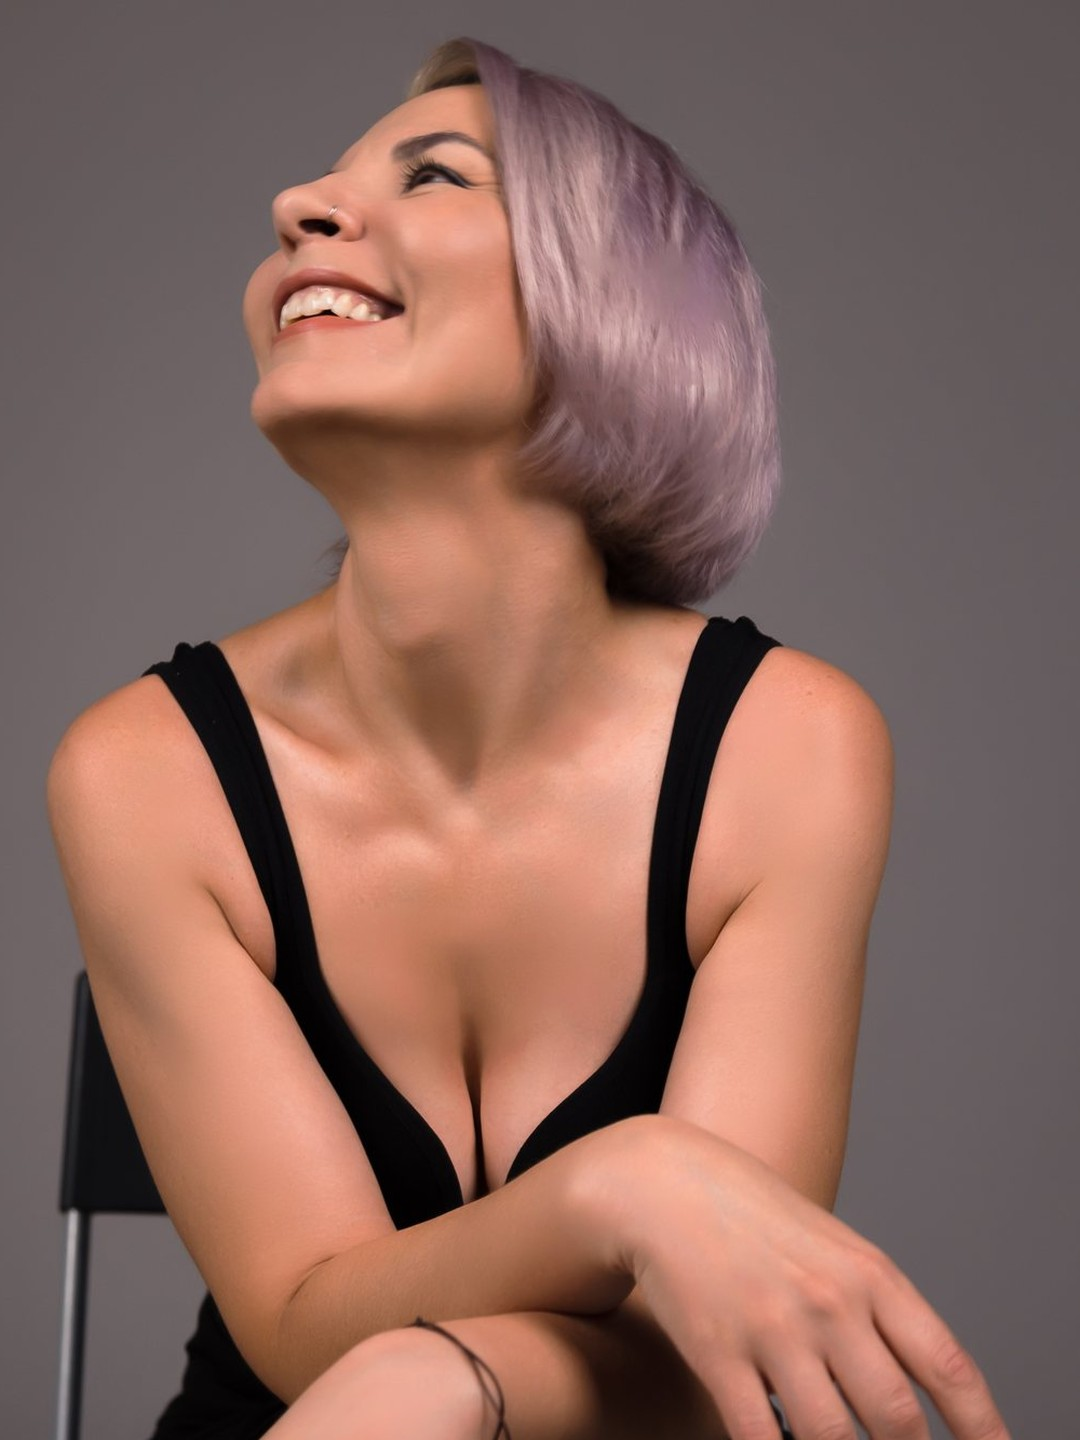
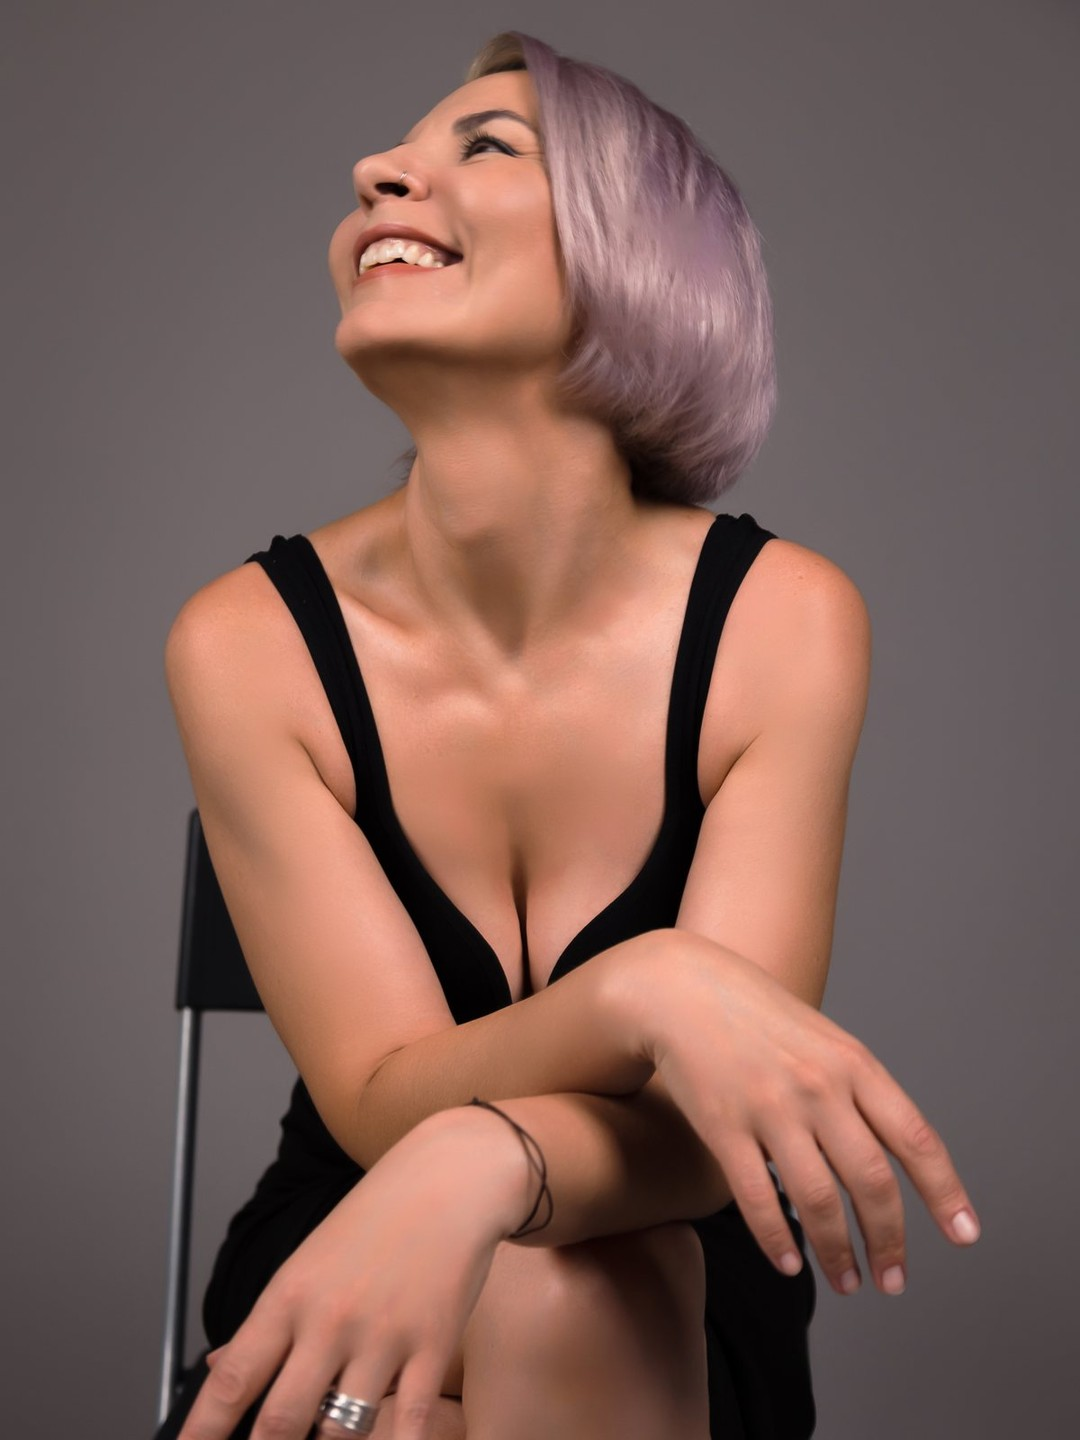
redeploy knowledge base 2026-09-03T16:11:54Z

diff --git a/about/index.html b/about/index.html
@@ -230,7 +230,7 @@ h1{font-size:28px}
 .tabs{grid-template-columns:repeat(auto-fit,minmax(140px,1fr));gap:7px}
 .tab{font-size:12.5px;padding:9px 8px}
 }
-.hero:not(.about-hero) .art{background:var(--ink) url('/assets/tatiana-hero.jpg') center right/cover no-repeat}.hero:not(.about-hero) .grid{display:none}.hero:not(.about-hero) .glow{display:none}@media(max-width:900px){.hero:not(.about-hero) .art{background-position:72% center}}.hero.about-hero{min-height:520px}.hero.about-hero .art{left:auto;right:0;width:50%;background:url('/assets/tatiana-about.jpg') center 18%/cover no-repeat;-webkit-mask-image:linear-gradient(90deg,transparent 0%,#000 44%);mask-image:linear-gradient(90deg,transparent 0%,#000 44%)}.hero.about-hero .txt{max-width:50%;background:none}.hero.about-hero h1{font-size:32px;max-width:12ch}.hero.about-hero .desc{font-size:15px;max-width:30ch}@media(max-width:760px){.hero.about-hero{display:block;padding-top:0}.hero.about-hero .art{position:static;inset:auto;width:100%;height:auto;aspect-ratio:3/4;background-position:center top;background-size:cover;-webkit-mask-image:linear-gradient(180deg,#000 86%,transparent 100%);mask-image:linear-gradient(180deg,#000 86%,transparent 100%)}.hero.about-hero .txt{max-width:100%;padding-top:18px;margin-top:-40px}.hero.about-hero h1{font-size:27px;max-width:none}.hero.about-hero .desc{max-width:none}}</style>
+.hero:not(.about-hero) .art{background:var(--ink) url('/assets/tatiana-hero.jpg') center right/cover no-repeat}.hero:not(.about-hero) .grid{display:none}.hero:not(.about-hero) .glow{display:none}@media(max-width:900px){.hero:not(.about-hero) .art{background-position:72% center}}.hero.about-hero{min-height:0;align-items:center;gap:38px;padding:40px;background:var(--surface)}.hero.about-hero .grid,.hero.about-hero .glow{display:none}.hero.about-hero .art{position:static;inset:auto;order:2;flex:0 0 320px;width:320px;aspect-ratio:3/4;background:var(--surface) url('/assets/tatiana-about.jpg') center top/cover no-repeat;border-radius:20px;box-shadow:0 20px 44px rgba(var(--tint-rgb),.26);-webkit-mask-image:none;mask-image:none}.hero.about-hero .txt{order:1;flex:1 1 auto;max-width:none;padding:0;background:none}.hero.about-hero h1{font-size:34px;max-width:15ch}.hero.about-hero .desc{font-size:16px;max-width:46ch;color:var(--muted)}@media(max-width:900px){.hero.about-hero{flex-direction:column;align-items:stretch;gap:22px;padding:22px}.hero.about-hero .art{order:1;flex:none;width:100%;max-width:320px;align-self:center}.hero.about-hero .txt{order:2}.hero.about-hero h1{font-size:27px;max-width:none}.hero.about-hero .desc{max-width:none}}</style>
 <script>
 (function(){
   var d=document.documentElement;

diff --git a/guide-mify/index.html b/guide-mify/index.html
@@ -230,7 +230,7 @@ h1{font-size:28px}
 .tabs{grid-template-columns:repeat(auto-fit,minmax(140px,1fr));gap:7px}
 .tab{font-size:12.5px;padding:9px 8px}
 }
-.hero:not(.about-hero) .art{background:var(--ink) url('/assets/tatiana-hero.jpg') center right/cover no-repeat}.hero:not(.about-hero) .grid{display:none}.hero:not(.about-hero) .glow{display:none}@media(max-width:900px){.hero:not(.about-hero) .art{background-position:72% center}}.hero.about-hero{min-height:520px}.hero.about-hero .art{left:auto;right:0;width:50%;background:url('/assets/tatiana-about.jpg') center 18%/cover no-repeat;-webkit-mask-image:linear-gradient(90deg,transparent 0%,#000 44%);mask-image:linear-gradient(90deg,transparent 0%,#000 44%)}.hero.about-hero .txt{max-width:50%;background:none}.hero.about-hero h1{font-size:32px;max-width:12ch}.hero.about-hero .desc{font-size:15px;max-width:30ch}@media(max-width:760px){.hero.about-hero{display:block;padding-top:0}.hero.about-hero .art{position:static;inset:auto;width:100%;height:auto;aspect-ratio:3/4;background-position:center top;background-size:cover;-webkit-mask-image:linear-gradient(180deg,#000 86%,transparent 100%);mask-image:linear-gradient(180deg,#000 86%,transparent 100%)}.hero.about-hero .txt{max-width:100%;padding-top:18px;margin-top:-40px}.hero.about-hero h1{font-size:27px;max-width:none}.hero.about-hero .desc{max-width:none}}</style>
+.hero:not(.about-hero) .art{background:var(--ink) url('/assets/tatiana-hero.jpg') center right/cover no-repeat}.hero:not(.about-hero) .grid{display:none}.hero:not(.about-hero) .glow{display:none}@media(max-width:900px){.hero:not(.about-hero) .art{background-position:72% center}}.hero.about-hero{min-height:0;align-items:center;gap:38px;padding:40px;background:var(--surface)}.hero.about-hero .grid,.hero.about-hero .glow{display:none}.hero.about-hero .art{position:static;inset:auto;order:2;flex:0 0 320px;width:320px;aspect-ratio:3/4;background:var(--surface) url('/assets/tatiana-about.jpg') center top/cover no-repeat;border-radius:20px;box-shadow:0 20px 44px rgba(var(--tint-rgb),.26);-webkit-mask-image:none;mask-image:none}.hero.about-hero .txt{order:1;flex:1 1 auto;max-width:none;padding:0;background:none}.hero.about-hero h1{font-size:34px;max-width:15ch}.hero.about-hero .desc{font-size:16px;max-width:46ch;color:var(--muted)}@media(max-width:900px){.hero.about-hero{flex-direction:column;align-items:stretch;gap:22px;padding:22px}.hero.about-hero .art{order:1;flex:none;width:100%;max-width:320px;align-self:center}.hero.about-hero .txt{order:2}.hero.about-hero h1{font-size:27px;max-width:none}.hero.about-hero .desc{max-width:none}}</style>
 <script>
 (function(){
   var d=document.documentElement;

diff --git a/guide-pervaya-nedelya/index.html b/guide-pervaya-nedelya/index.html
@@ -230,7 +230,7 @@ h1{font-size:28px}
 .tabs{grid-template-columns:repeat(auto-fit,minmax(140px,1fr));gap:7px}
 .tab{font-size:12.5px;padding:9px 8px}
 }
-.hero:not(.about-hero) .art{background:var(--ink) url('/assets/tatiana-hero.jpg') center right/cover no-repeat}.hero:not(.about-hero) .grid{display:none}.hero:not(.about-hero) .glow{display:none}@media(max-width:900px){.hero:not(.about-hero) .art{background-position:72% center}}.hero.about-hero{min-height:520px}.hero.about-hero .art{left:auto;right:0;width:50%;background:url('/assets/tatiana-about.jpg') center 18%/cover no-repeat;-webkit-mask-image:linear-gradient(90deg,transparent 0%,#000 44%);mask-image:linear-gradient(90deg,transparent 0%,#000 44%)}.hero.about-hero .txt{max-width:50%;background:none}.hero.about-hero h1{font-size:32px;max-width:12ch}.hero.about-hero .desc{font-size:15px;max-width:30ch}@media(max-width:760px){.hero.about-hero{display:block;padding-top:0}.hero.about-hero .art{position:static;inset:auto;width:100%;height:auto;aspect-ratio:3/4;background-position:center top;background-size:cover;-webkit-mask-image:linear-gradient(180deg,#000 86%,transparent 100%);mask-image:linear-gradient(180deg,#000 86%,transparent 100%)}.hero.about-hero .txt{max-width:100%;padding-top:18px;margin-top:-40px}.hero.about-hero h1{font-size:27px;max-width:none}.hero.about-hero .desc{max-width:none}}</style>
+.hero:not(.about-hero) .art{background:var(--ink) url('/assets/tatiana-hero.jpg') center right/cover no-repeat}.hero:not(.about-hero) .grid{display:none}.hero:not(.about-hero) .glow{display:none}@media(max-width:900px){.hero:not(.about-hero) .art{background-position:72% center}}.hero.about-hero{min-height:0;align-items:center;gap:38px;padding:40px;background:var(--surface)}.hero.about-hero .grid,.hero.about-hero .glow{display:none}.hero.about-hero .art{position:static;inset:auto;order:2;flex:0 0 320px;width:320px;aspect-ratio:3/4;background:var(--surface) url('/assets/tatiana-about.jpg') center top/cover no-repeat;border-radius:20px;box-shadow:0 20px 44px rgba(var(--tint-rgb),.26);-webkit-mask-image:none;mask-image:none}.hero.about-hero .txt{order:1;flex:1 1 auto;max-width:none;padding:0;background:none}.hero.about-hero h1{font-size:34px;max-width:15ch}.hero.about-hero .desc{font-size:16px;max-width:46ch;color:var(--muted)}@media(max-width:900px){.hero.about-hero{flex-direction:column;align-items:stretch;gap:22px;padding:22px}.hero.about-hero .art{order:1;flex:none;width:100%;max-width:320px;align-self:center}.hero.about-hero .txt{order:2}.hero.about-hero h1{font-size:27px;max-width:none}.hero.about-hero .desc{max-width:none}}</style>
 <script>
 (function(){
   var d=document.documentElement;

diff --git a/guide-privychki/index.html b/guide-privychki/index.html
@@ -230,7 +230,7 @@ h1{font-size:28px}
 .tabs{grid-template-columns:repeat(auto-fit,minmax(140px,1fr));gap:7px}
 .tab{font-size:12.5px;padding:9px 8px}
 }
-.hero:not(.about-hero) .art{background:var(--ink) url('/assets/tatiana-hero.jpg') center right/cover no-repeat}.hero:not(.about-hero) .grid{display:none}.hero:not(.about-hero) .glow{display:none}@media(max-width:900px){.hero:not(.about-hero) .art{background-position:72% center}}.hero.about-hero{min-height:520px}.hero.about-hero .art{left:auto;right:0;width:50%;background:url('/assets/tatiana-about.jpg') center 18%/cover no-repeat;-webkit-mask-image:linear-gradient(90deg,transparent 0%,#000 44%);mask-image:linear-gradient(90deg,transparent 0%,#000 44%)}.hero.about-hero .txt{max-width:50%;background:none}.hero.about-hero h1{font-size:32px;max-width:12ch}.hero.about-hero .desc{font-size:15px;max-width:30ch}@media(max-width:760px){.hero.about-hero{display:block;padding-top:0}.hero.about-hero .art{position:static;inset:auto;width:100%;height:auto;aspect-ratio:3/4;background-position:center top;background-size:cover;-webkit-mask-image:linear-gradient(180deg,#000 86%,transparent 100%);mask-image:linear-gradient(180deg,#000 86%,transparent 100%)}.hero.about-hero .txt{max-width:100%;padding-top:18px;margin-top:-40px}.hero.about-hero h1{font-size:27px;max-width:none}.hero.about-hero .desc{max-width:none}}</style>
+.hero:not(.about-hero) .art{background:var(--ink) url('/assets/tatiana-hero.jpg') center right/cover no-repeat}.hero:not(.about-hero) .grid{display:none}.hero:not(.about-hero) .glow{display:none}@media(max-width:900px){.hero:not(.about-hero) .art{background-position:72% center}}.hero.about-hero{min-height:0;align-items:center;gap:38px;padding:40px;background:var(--surface)}.hero.about-hero .grid,.hero.about-hero .glow{display:none}.hero.about-hero .art{position:static;inset:auto;order:2;flex:0 0 320px;width:320px;aspect-ratio:3/4;background:var(--surface) url('/assets/tatiana-about.jpg') center top/cover no-repeat;border-radius:20px;box-shadow:0 20px 44px rgba(var(--tint-rgb),.26);-webkit-mask-image:none;mask-image:none}.hero.about-hero .txt{order:1;flex:1 1 auto;max-width:none;padding:0;background:none}.hero.about-hero h1{font-size:34px;max-width:15ch}.hero.about-hero .desc{font-size:16px;max-width:46ch;color:var(--muted)}@media(max-width:900px){.hero.about-hero{flex-direction:column;align-items:stretch;gap:22px;padding:22px}.hero.about-hero .art{order:1;flex:none;width:100%;max-width:320px;align-self:center}.hero.about-hero .txt{order:2}.hero.about-hero h1{font-size:27px;max-width:none}.hero.about-hero .desc{max-width:none}}</style>
 <script>
 (function(){
   var d=document.documentElement;

diff --git a/guide-semya/index.html b/guide-semya/index.html
@@ -230,7 +230,7 @@ h1{font-size:28px}
 .tabs{grid-template-columns:repeat(auto-fit,minmax(140px,1fr));gap:7px}
 .tab{font-size:12.5px;padding:9px 8px}
 }
-.hero:not(.about-hero) .art{background:var(--ink) url('/assets/tatiana-hero.jpg') center right/cover no-repeat}.hero:not(.about-hero) .grid{display:none}.hero:not(.about-hero) .glow{display:none}@media(max-width:900px){.hero:not(.about-hero) .art{background-position:72% center}}.hero.about-hero{min-height:520px}.hero.about-hero .art{left:auto;right:0;width:50%;background:url('/assets/tatiana-about.jpg') center 18%/cover no-repeat;-webkit-mask-image:linear-gradient(90deg,transparent 0%,#000 44%);mask-image:linear-gradient(90deg,transparent 0%,#000 44%)}.hero.about-hero .txt{max-width:50%;background:none}.hero.about-hero h1{font-size:32px;max-width:12ch}.hero.about-hero .desc{font-size:15px;max-width:30ch}@media(max-width:760px){.hero.about-hero{display:block;padding-top:0}.hero.about-hero .art{position:static;inset:auto;width:100%;height:auto;aspect-ratio:3/4;background-position:center top;background-size:cover;-webkit-mask-image:linear-gradient(180deg,#000 86%,transparent 100%);mask-image:linear-gradient(180deg,#000 86%,transparent 100%)}.hero.about-hero .txt{max-width:100%;padding-top:18px;margin-top:-40px}.hero.about-hero h1{font-size:27px;max-width:none}.hero.about-hero .desc{max-width:none}}</style>
+.hero:not(.about-hero) .art{background:var(--ink) url('/assets/tatiana-hero.jpg') center right/cover no-repeat}.hero:not(.about-hero) .grid{display:none}.hero:not(.about-hero) .glow{display:none}@media(max-width:900px){.hero:not(.about-hero) .art{background-position:72% center}}.hero.about-hero{min-height:0;align-items:center;gap:38px;padding:40px;background:var(--surface)}.hero.about-hero .grid,.hero.about-hero .glow{display:none}.hero.about-hero .art{position:static;inset:auto;order:2;flex:0 0 320px;width:320px;aspect-ratio:3/4;background:var(--surface) url('/assets/tatiana-about.jpg') center top/cover no-repeat;border-radius:20px;box-shadow:0 20px 44px rgba(var(--tint-rgb),.26);-webkit-mask-image:none;mask-image:none}.hero.about-hero .txt{order:1;flex:1 1 auto;max-width:none;padding:0;background:none}.hero.about-hero h1{font-size:34px;max-width:15ch}.hero.about-hero .desc{font-size:16px;max-width:46ch;color:var(--muted)}@media(max-width:900px){.hero.about-hero{flex-direction:column;align-items:stretch;gap:22px;padding:22px}.hero.about-hero .art{order:1;flex:none;width:100%;max-width:320px;align-self:center}.hero.about-hero .txt{order:2}.hero.about-hero h1{font-size:27px;max-width:none}.hero.about-hero .desc{max-width:none}}</style>
 <script>
 (function(){
   var d=document.documentElement;

diff --git a/guide-tarelka/index.html b/guide-tarelka/index.html
@@ -230,7 +230,7 @@ h1{font-size:28px}
 .tabs{grid-template-columns:repeat(auto-fit,minmax(140px,1fr));gap:7px}
 .tab{font-size:12.5px;padding:9px 8px}
 }
-.hero:not(.about-hero) .art{background:var(--ink) url('/assets/tatiana-hero.jpg') center right/cover no-repeat}.hero:not(.about-hero) .grid{display:none}.hero:not(.about-hero) .glow{display:none}@media(max-width:900px){.hero:not(.about-hero) .art{background-position:72% center}}.hero.about-hero{min-height:520px}.hero.about-hero .art{left:auto;right:0;width:50%;background:url('/assets/tatiana-about.jpg') center 18%/cover no-repeat;-webkit-mask-image:linear-gradient(90deg,transparent 0%,#000 44%);mask-image:linear-gradient(90deg,transparent 0%,#000 44%)}.hero.about-hero .txt{max-width:50%;background:none}.hero.about-hero h1{font-size:32px;max-width:12ch}.hero.about-hero .desc{font-size:15px;max-width:30ch}@media(max-width:760px){.hero.about-hero{display:block;padding-top:0}.hero.about-hero .art{position:static;inset:auto;width:100%;height:auto;aspect-ratio:3/4;background-position:center top;background-size:cover;-webkit-mask-image:linear-gradient(180deg,#000 86%,transparent 100%);mask-image:linear-gradient(180deg,#000 86%,transparent 100%)}.hero.about-hero .txt{max-width:100%;padding-top:18px;margin-top:-40px}.hero.about-hero h1{font-size:27px;max-width:none}.hero.about-hero .desc{max-width:none}}</style>
+.hero:not(.about-hero) .art{background:var(--ink) url('/assets/tatiana-hero.jpg') center right/cover no-repeat}.hero:not(.about-hero) .grid{display:none}.hero:not(.about-hero) .glow{display:none}@media(max-width:900px){.hero:not(.about-hero) .art{background-position:72% center}}.hero.about-hero{min-height:0;align-items:center;gap:38px;padding:40px;background:var(--surface)}.hero.about-hero .grid,.hero.about-hero .glow{display:none}.hero.about-hero .art{position:static;inset:auto;order:2;flex:0 0 320px;width:320px;aspect-ratio:3/4;background:var(--surface) url('/assets/tatiana-about.jpg') center top/cover no-repeat;border-radius:20px;box-shadow:0 20px 44px rgba(var(--tint-rgb),.26);-webkit-mask-image:none;mask-image:none}.hero.about-hero .txt{order:1;flex:1 1 auto;max-width:none;padding:0;background:none}.hero.about-hero h1{font-size:34px;max-width:15ch}.hero.about-hero .desc{font-size:16px;max-width:46ch;color:var(--muted)}@media(max-width:900px){.hero.about-hero{flex-direction:column;align-items:stretch;gap:22px;padding:22px}.hero.about-hero .art{order:1;flex:none;width:100%;max-width:320px;align-self:center}.hero.about-hero .txt{order:2}.hero.about-hero h1{font-size:27px;max-width:none}.hero.about-hero .desc{max-width:none}}</style>
 <script>
 (function(){
   var d=document.documentElement;

diff --git a/guide-vecher/index.html b/guide-vecher/index.html
@@ -230,7 +230,7 @@ h1{font-size:28px}
 .tabs{grid-template-columns:repeat(auto-fit,minmax(140px,1fr));gap:7px}
 .tab{font-size:12.5px;padding:9px 8px}
 }
-.hero:not(.about-hero) .art{background:var(--ink) url('/assets/tatiana-hero.jpg') center right/cover no-repeat}.hero:not(.about-hero) .grid{display:none}.hero:not(.about-hero) .glow{display:none}@media(max-width:900px){.hero:not(.about-hero) .art{background-position:72% center}}.hero.about-hero{min-height:520px}.hero.about-hero .art{left:auto;right:0;width:50%;background:url('/assets/tatiana-about.jpg') center 18%/cover no-repeat;-webkit-mask-image:linear-gradient(90deg,transparent 0%,#000 44%);mask-image:linear-gradient(90deg,transparent 0%,#000 44%)}.hero.about-hero .txt{max-width:50%;background:none}.hero.about-hero h1{font-size:32px;max-width:12ch}.hero.about-hero .desc{font-size:15px;max-width:30ch}@media(max-width:760px){.hero.about-hero{display:block;padding-top:0}.hero.about-hero .art{position:static;inset:auto;width:100%;height:auto;aspect-ratio:3/4;background-position:center top;background-size:cover;-webkit-mask-image:linear-gradient(180deg,#000 86%,transparent 100%);mask-image:linear-gradient(180deg,#000 86%,transparent 100%)}.hero.about-hero .txt{max-width:100%;padding-top:18px;margin-top:-40px}.hero.about-hero h1{font-size:27px;max-width:none}.hero.about-hero .desc{max-width:none}}</style>
+.hero:not(.about-hero) .art{background:var(--ink) url('/assets/tatiana-hero.jpg') center right/cover no-repeat}.hero:not(.about-hero) .grid{display:none}.hero:not(.about-hero) .glow{display:none}@media(max-width:900px){.hero:not(.about-hero) .art{background-position:72% center}}.hero.about-hero{min-height:0;align-items:center;gap:38px;padding:40px;background:var(--surface)}.hero.about-hero .grid,.hero.about-hero .glow{display:none}.hero.about-hero .art{position:static;inset:auto;order:2;flex:0 0 320px;width:320px;aspect-ratio:3/4;background:var(--surface) url('/assets/tatiana-about.jpg') center top/cover no-repeat;border-radius:20px;box-shadow:0 20px 44px rgba(var(--tint-rgb),.26);-webkit-mask-image:none;mask-image:none}.hero.about-hero .txt{order:1;flex:1 1 auto;max-width:none;padding:0;background:none}.hero.about-hero h1{font-size:34px;max-width:15ch}.hero.about-hero .desc{font-size:16px;max-width:46ch;color:var(--muted)}@media(max-width:900px){.hero.about-hero{flex-direction:column;align-items:stretch;gap:22px;padding:22px}.hero.about-hero .art{order:1;flex:none;width:100%;max-width:320px;align-self:center}.hero.about-hero .txt{order:2}.hero.about-hero h1{font-size:27px;max-width:none}.hero.about-hero .desc{max-width:none}}</style>
 <script>
 (function(){
   var d=document.documentElement;

diff --git a/guide-ves-vstal/index.html b/guide-ves-vstal/index.html
@@ -230,7 +230,7 @@ h1{font-size:28px}
 .tabs{grid-template-columns:repeat(auto-fit,minmax(140px,1fr));gap:7px}
 .tab{font-size:12.5px;padding:9px 8px}
 }
-.hero:not(.about-hero) .art{background:var(--ink) url('/assets/tatiana-hero.jpg') center right/cover no-repeat}.hero:not(.about-hero) .grid{display:none}.hero:not(.about-hero) .glow{display:none}@media(max-width:900px){.hero:not(.about-hero) .art{background-position:72% center}}.hero.about-hero{min-height:520px}.hero.about-hero .art{left:auto;right:0;width:50%;background:url('/assets/tatiana-about.jpg') center 18%/cover no-repeat;-webkit-mask-image:linear-gradient(90deg,transparent 0%,#000 44%);mask-image:linear-gradient(90deg,transparent 0%,#000 44%)}.hero.about-hero .txt{max-width:50%;background:none}.hero.about-hero h1{font-size:32px;max-width:12ch}.hero.about-hero .desc{font-size:15px;max-width:30ch}@media(max-width:760px){.hero.about-hero{display:block;padding-top:0}.hero.about-hero .art{position:static;inset:auto;width:100%;height:auto;aspect-ratio:3/4;background-position:center top;background-size:cover;-webkit-mask-image:linear-gradient(180deg,#000 86%,transparent 100%);mask-image:linear-gradient(180deg,#000 86%,transparent 100%)}.hero.about-hero .txt{max-width:100%;padding-top:18px;margin-top:-40px}.hero.about-hero h1{font-size:27px;max-width:none}.hero.about-hero .desc{max-width:none}}</style>
+.hero:not(.about-hero) .art{background:var(--ink) url('/assets/tatiana-hero.jpg') center right/cover no-repeat}.hero:not(.about-hero) .grid{display:none}.hero:not(.about-hero) .glow{display:none}@media(max-width:900px){.hero:not(.about-hero) .art{background-position:72% center}}.hero.about-hero{min-height:0;align-items:center;gap:38px;padding:40px;background:var(--surface)}.hero.about-hero .grid,.hero.about-hero .glow{display:none}.hero.about-hero .art{position:static;inset:auto;order:2;flex:0 0 320px;width:320px;aspect-ratio:3/4;background:var(--surface) url('/assets/tatiana-about.jpg') center top/cover no-repeat;border-radius:20px;box-shadow:0 20px 44px rgba(var(--tint-rgb),.26);-webkit-mask-image:none;mask-image:none}.hero.about-hero .txt{order:1;flex:1 1 auto;max-width:none;padding:0;background:none}.hero.about-hero h1{font-size:34px;max-width:15ch}.hero.about-hero .desc{font-size:16px;max-width:46ch;color:var(--muted)}@media(max-width:900px){.hero.about-hero{flex-direction:column;align-items:stretch;gap:22px;padding:22px}.hero.about-hero .art{order:1;flex:none;width:100%;max-width:320px;align-self:center}.hero.about-hero .txt{order:2}.hero.about-hero h1{font-size:27px;max-width:none}.hero.about-hero .desc{max-width:none}}</style>
 <script>
 (function(){
   var d=document.documentElement;

diff --git a/index.html b/index.html
@@ -230,7 +230,7 @@ h1{font-size:28px}
 .tabs{grid-template-columns:repeat(auto-fit,minmax(140px,1fr));gap:7px}
 .tab{font-size:12.5px;padding:9px 8px}
 }
-.hero:not(.about-hero) .art{background:var(--ink) url('/assets/tatiana-hero.jpg') center right/cover no-repeat}.hero:not(.about-hero) .grid{display:none}.hero:not(.about-hero) .glow{display:none}@media(max-width:900px){.hero:not(.about-hero) .art{background-position:72% center}}.hero.about-hero{min-height:520px}.hero.about-hero .art{left:auto;right:0;width:50%;background:url('/assets/tatiana-about.jpg') center 18%/cover no-repeat;-webkit-mask-image:linear-gradient(90deg,transparent 0%,#000 44%);mask-image:linear-gradient(90deg,transparent 0%,#000 44%)}.hero.about-hero .txt{max-width:50%;background:none}.hero.about-hero h1{font-size:32px;max-width:12ch}.hero.about-hero .desc{font-size:15px;max-width:30ch}@media(max-width:760px){.hero.about-hero{display:block;padding-top:0}.hero.about-hero .art{position:static;inset:auto;width:100%;height:auto;aspect-ratio:3/4;background-position:center top;background-size:cover;-webkit-mask-image:linear-gradient(180deg,#000 86%,transparent 100%);mask-image:linear-gradient(180deg,#000 86%,transparent 100%)}.hero.about-hero .txt{max-width:100%;padding-top:18px;margin-top:-40px}.hero.about-hero h1{font-size:27px;max-width:none}.hero.about-hero .desc{max-width:none}}</style>
+.hero:not(.about-hero) .art{background:var(--ink) url('/assets/tatiana-hero.jpg') center right/cover no-repeat}.hero:not(.about-hero) .grid{display:none}.hero:not(.about-hero) .glow{display:none}@media(max-width:900px){.hero:not(.about-hero) .art{background-position:72% center}}.hero.about-hero{min-height:0;align-items:center;gap:38px;padding:40px;background:var(--surface)}.hero.about-hero .grid,.hero.about-hero .glow{display:none}.hero.about-hero .art{position:static;inset:auto;order:2;flex:0 0 320px;width:320px;aspect-ratio:3/4;background:var(--surface) url('/assets/tatiana-about.jpg') center top/cover no-repeat;border-radius:20px;box-shadow:0 20px 44px rgba(var(--tint-rgb),.26);-webkit-mask-image:none;mask-image:none}.hero.about-hero .txt{order:1;flex:1 1 auto;max-width:none;padding:0;background:none}.hero.about-hero h1{font-size:34px;max-width:15ch}.hero.about-hero .desc{font-size:16px;max-width:46ch;color:var(--muted)}@media(max-width:900px){.hero.about-hero{flex-direction:column;align-items:stretch;gap:22px;padding:22px}.hero.about-hero .art{order:1;flex:none;width:100%;max-width:320px;align-self:center}.hero.about-hero .txt{order:2}.hero.about-hero h1{font-size:27px;max-width:none}.hero.about-hero .desc{max-width:none}}</style>
 <script>
 (function(){
   var d=document.documentElement;
